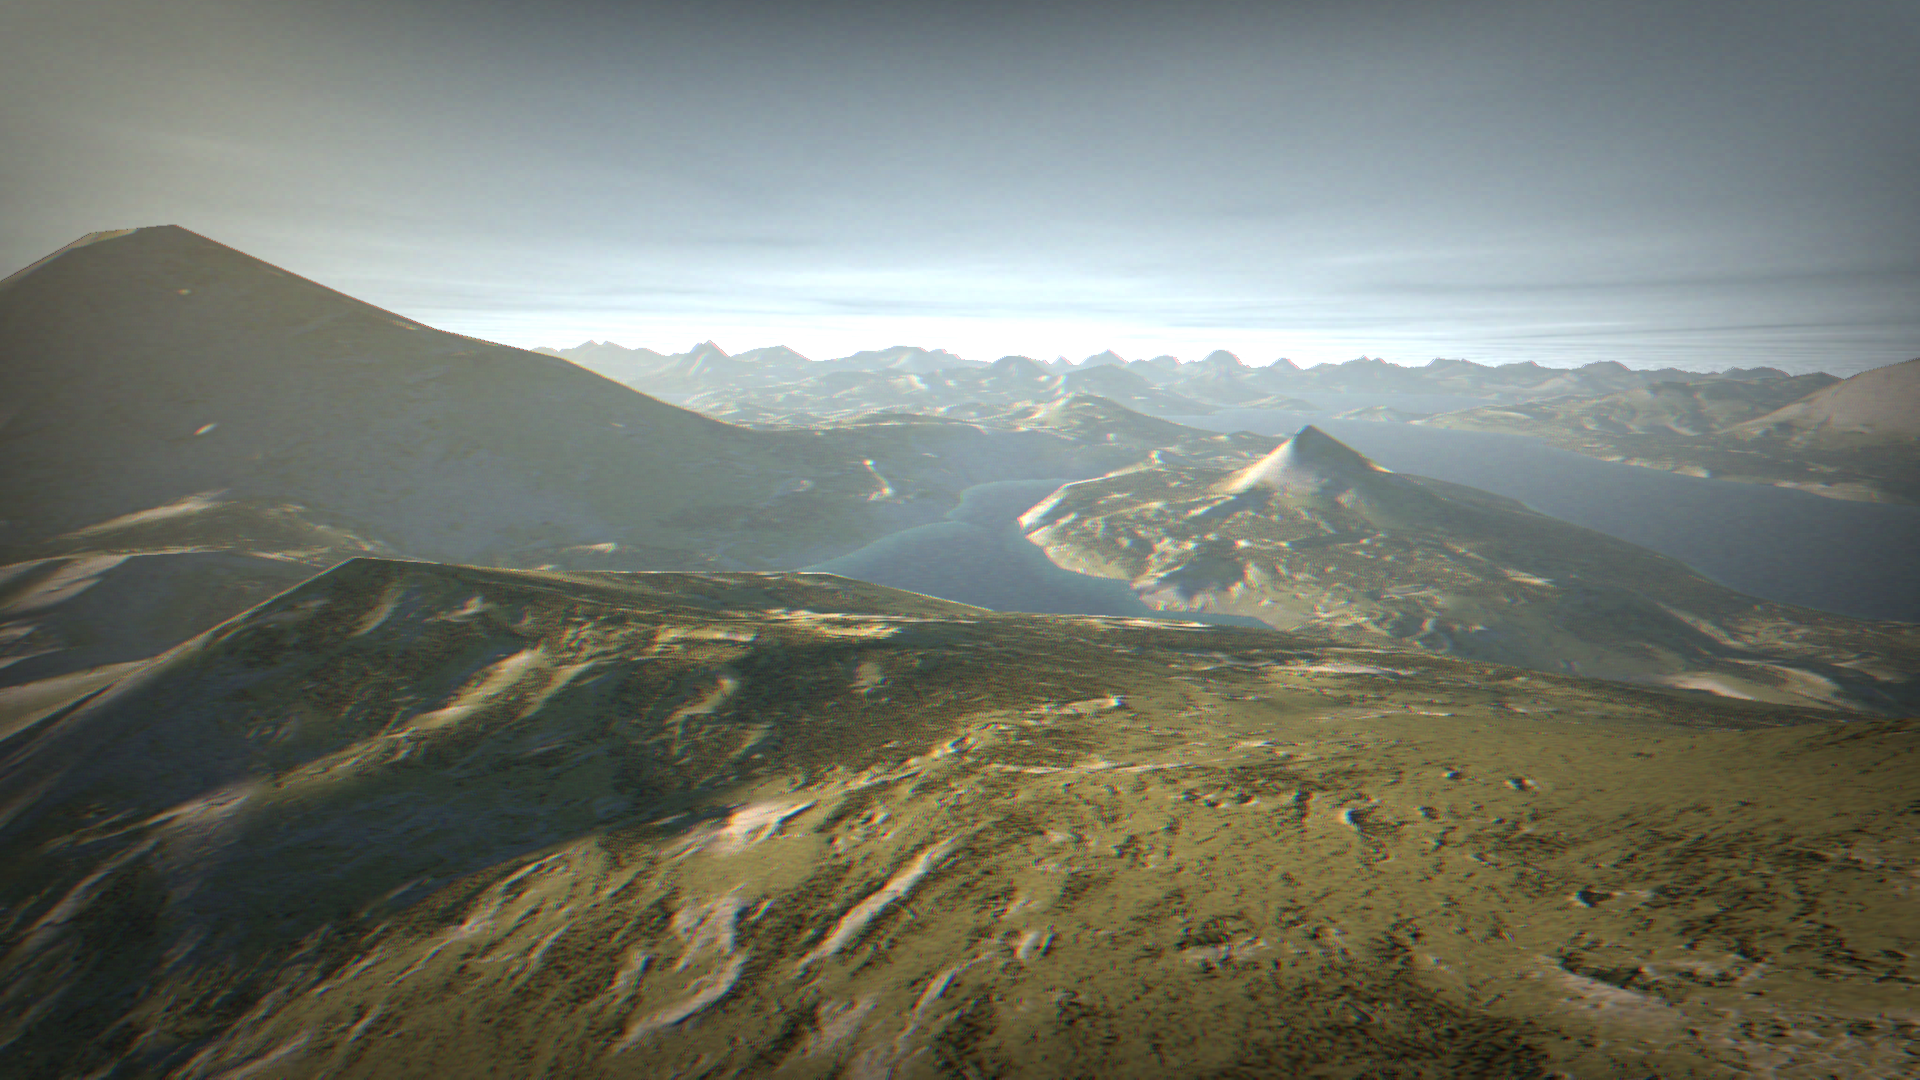
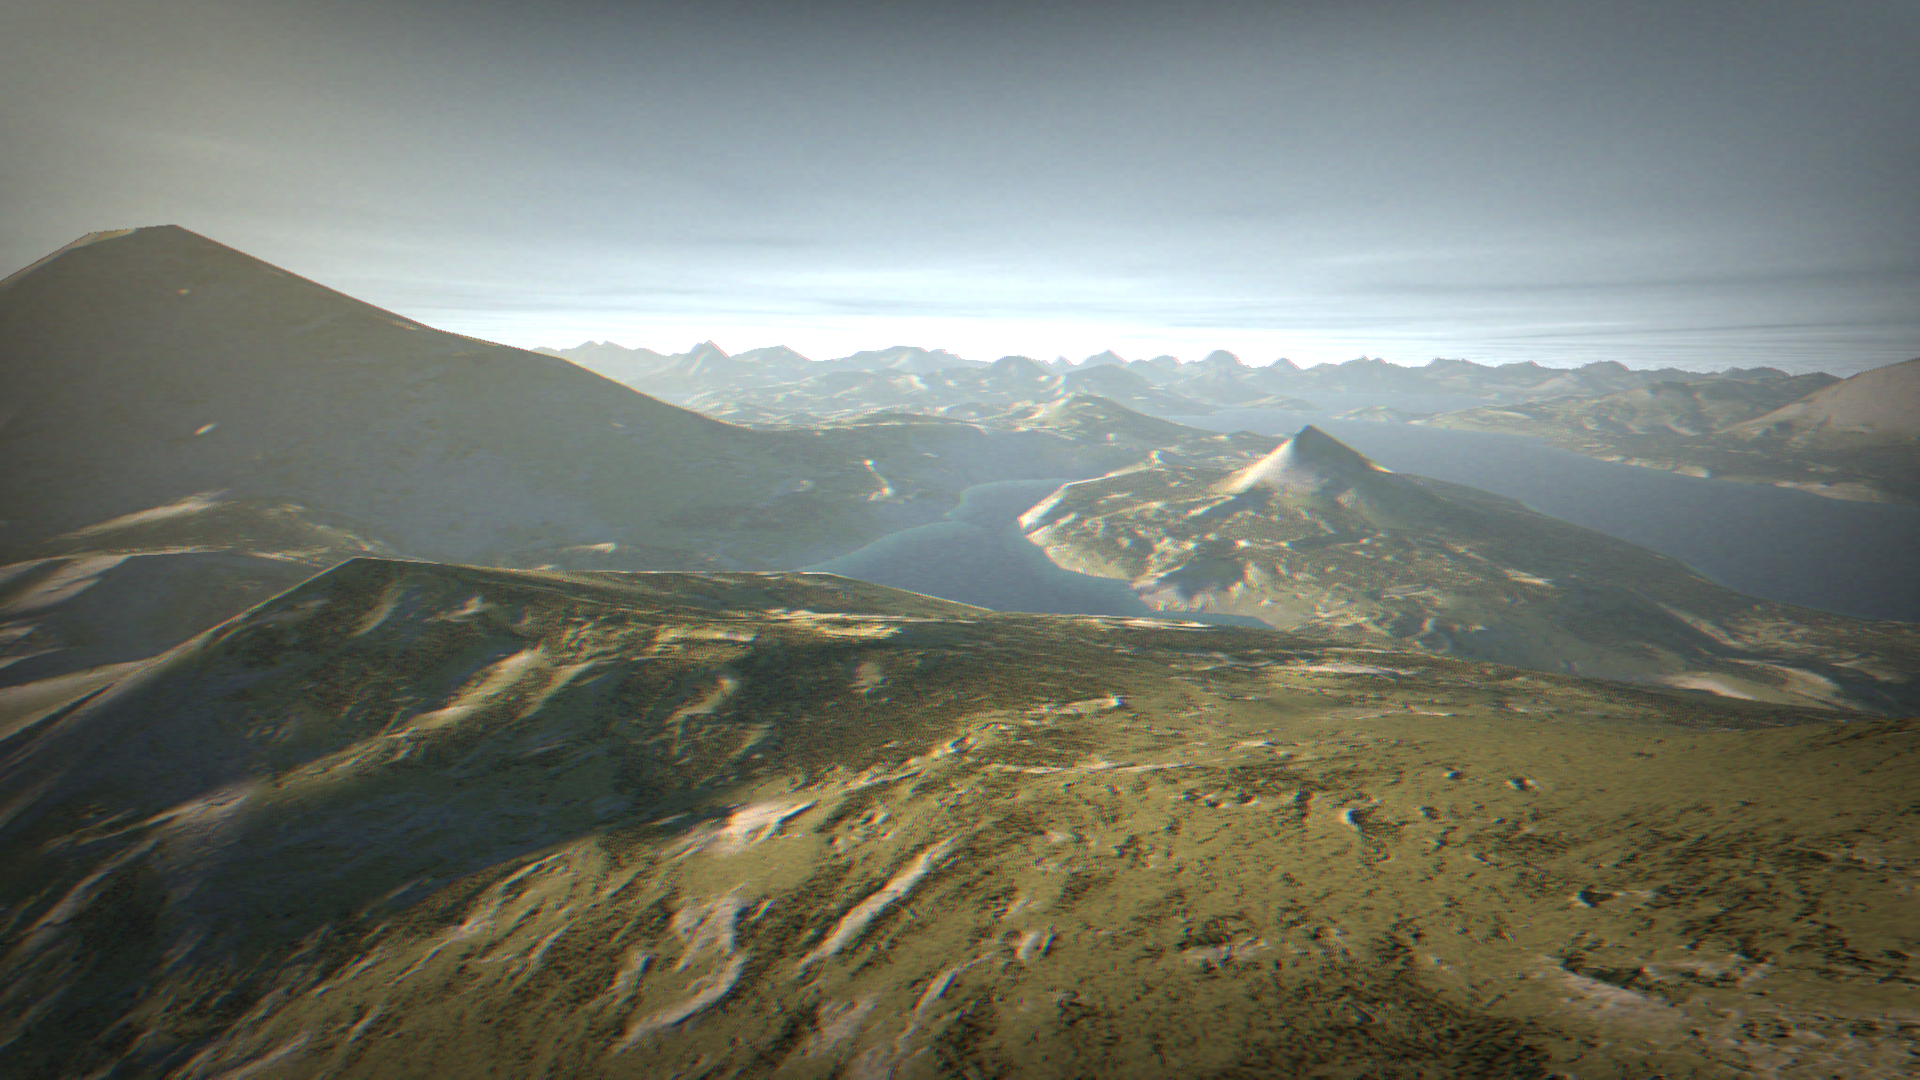
chore: checkpoint current state before fade-black experiments

diff --git a/ElevatedMac/ElevatedMac/Renderer.swift b/ElevatedMac/ElevatedMac/Renderer.swift
@@ -136,6 +136,12 @@ class DebugOverlay {
     }
 }
 
+// ─── Demo duration (exact, derived from audio sample count) ──────────────────
+// ELEVATED_TOTAL_SAMPLES = 9568256, sampleRate = 44100 Hz → 216.967s
+// Fade-to-black starts row 424 → t=200.37s; fully black row 448 → t=211.71s
+// Pure black tail: 211.71s→216.97s (5.26s). Total dark ending: 16.6s.
+let kDemoDuration: Double = Double(ELEVATED_TOTAL_SAMPLES) / 44100.0
+
 // ─── Renderer ─────────────────────────────────────────────────────────────────
 class Renderer: NSObject, MTKViewDelegate {
     let device: MTLDevice
@@ -194,7 +200,7 @@ class Renderer: NSObject, MTKViewDelegate {
     var currentTime: Double {
         guard startTime > 0 else { return 0 }
         let t = isPaused ? pauseTime : CACurrentMediaTime() - startTime
-        return max(0, min(t, 217.0))
+        return max(0, min(t, kDemoDuration))
     }
 
     func start() {
@@ -215,7 +221,7 @@ class Renderer: NSObject, MTKViewDelegate {
     }
 
     func seek(to time: Double) {
-        let t = max(0, min(time, 217.0))
+        let t = max(0, min(time, kDemoDuration))
         startTime = CACurrentMediaTime() - t
         if isPaused { pauseTime = t }
     }
@@ -250,10 +256,23 @@ class Renderer: NSObject, MTKViewDelegate {
     func buildPipelines(mtkView: MTKView) {
         let lib: MTLLibrary
         do {
-            // SPM copies .metal as a resource; compile it at runtime
-            guard let srcURL = Bundle.module.url(forResource: "Shaders", withExtension: "metal"),
-                  let src = try? String(contentsOf: srcURL, encoding: .utf8) else {
-                fatalError("Shaders.metal not found in bundle")
+            // Load Shaders.metal portably:
+            //   .app bundle  → Bundle.main (Contents/Resources/Shaders.metal)
+            //   CLI build    → ElevatedMac_ElevatedMac.bundle next to the executable
+            let srcURL: URL? = {
+                if let u = Bundle.main.url(forResource: "Shaders", withExtension: "metal") {
+                    return u
+                }
+                let execDir = URL(fileURLWithPath: ProcessInfo.processInfo.arguments[0])
+                    .deletingLastPathComponent()
+                let candidates = [
+                    execDir.appendingPathComponent("ElevatedMac_ElevatedMac.bundle/Shaders.metal"),
+                    execDir.appendingPathComponent("Shaders.metal"),
+                ]
+                return candidates.first { FileManager.default.fileExists(atPath: $0.path) }
+            }()
+            guard let srcURL, let src = try? String(contentsOf: srcURL, encoding: .utf8) else {
+                fatalError("Shaders.metal not found (checked Bundle.main and path next to binary)")
             }
             let opts = MTLCompileOptions()
             opts.languageVersion = .version3_0
@@ -589,7 +608,7 @@ class Renderer: NSObject, MTKViewDelegate {
 
     func draw(in view: MTKView) {
         let t = currentTime
-        if t >= 217.0 && !isPaused && !debugMode {
+        if t >= kDemoDuration && !isPaused && !debugMode {
             NSApplication.shared.terminate(nil)
             return
         }
@@ -619,7 +638,7 @@ class Renderer: NSObject, MTKViewDelegate {
         var uCopy = uniforms
         if let enc = cmd.makeRenderCommandEncoder(descriptor: gbRPD) {
             enc.setRenderPipelineState(gbufferPSO)
-            enc.setCullMode(.back)   // hide terrain underside when camera dips below mesh
+            enc.setCullMode(.front)  // match D3D9 D3DCULL_CCW: cull CCW-in-screen = CW-in-NDC
             enc.setDepthStencilState(depthState)
             enc.setVertexBuffer(terrainVBuf, offset: 0, index: 0)
             enc.setVertexBytes(&uCopy, length: MemoryLayout<Uniforms>.size, index: 1)

diff --git a/ElevatedMac/ElevatedMac/AppDelegate.swift b/ElevatedMac/ElevatedMac/AppDelegate.swift
@@ -124,7 +124,7 @@ class AppDelegate: NSObject, NSApplicationDelegate {
     }
 
     private func seekBy(_ delta: Double) {
-        let t = max(0, min(renderer.currentTime + delta, 217.0))
+        let t = max(0, min(renderer.currentTime + delta, kDemoDuration))
         renderer.seek(to: t)
         synth.seek(to: t)
     }
@@ -239,7 +239,7 @@ class TransportBar: NSView {
     private let timeLabel    = makeMonoLabel(width: 110, align: .left)
     private let remainLabel  = makeMonoLabel(width: 120, align: .right)
     private let slider       = SeekSlider()
-    private let totalDuration = 217.0
+    private let totalDuration = kDemoDuration
 
     override init(frame: NSRect) {
         super.init(frame: frame)

diff --git a/JOURNAL.md b/JOURNAL.md
@@ -183,6 +183,54 @@ const float up[3] = { sinf(pptr->w), cosf(pptr->w), 0.0f };
 
 ---
 
+## Fix 5: Back-Face Culling Direction (2026-03-24)
+
+**Problem**: Added `enc.setCullMode(.back)` to fix terrain-from-below, but this caused "mangled" terrain — flat horizontal slabs cutting through the scene.
+
+**Root cause**: Metal and D3D9 have opposite handedness for front-face determination after the viewport Y-flip.
+
+- D3D9 default `D3DCULL_CCW`: culls CCW triangles in screen space (Y-down) = CW in NDC (Y-up).
+  → D3D9 renders triangles that are **CCW in NDC (Y-up)** = CW in screen (Y-down).
+- Metal `.setCullMode(.back)` + default `.counterClockwise` front face: culls CW in framebuffer (Y-down) = CCW in NDC (Y-up).
+  → Metal with `.back` renders triangles that are **CW in NDC (Y-up)** = CCW in framebuffer.
+
+Our terrain mesh top-surface triangles are **CCW in NDC** (correct, matches D3D9 front face). With `.back` culling in Metal, these get culled as "back faces." Only the undersides (CW in NDC) are rendered — exactly backwards.
+
+**Fix in `Renderer.swift`** (G-buffer encoder):
+```swift
+// Before (wrong — culls terrain tops):
+enc.setCullMode(.back)
+// After (correct — matches D3D9 D3DCULL_CCW):
+enc.setCullMode(.front)
+```
+
+With `.front` culling: Metal culls CCW-in-framebuffer = CW-in-NDC = what D3D9 also culls. Both show terrain tops, hide bottoms.
+
+---
+
+## Demo Timing (Exact, from Sync Data)
+
+All times computed from `row = position / 20840`, `position = t × 44100`.
+
+| Event | Row | Time (s) | SMPTE (60fps) |
+|-------|-----|----------|---------------|
+| Fade from black starts | 0 | 0.000 | 00:00:00:00 |
+| Fade from black ends | 8 | 3.778 | 00:00:03:47 |
+| Fade to black starts | 424 | 200.37 | 00:03:20:22 |
+| Screen fully black | 448 | 211.71 | 00:03:31:43 |
+| Audio ends | — | 216.97 | 00:03:36:58 |
+
+The dark ending has two phases:
+- **Fade** (rows 424→448): 11.34 seconds — `imgBrightness` linearly goes 100→0 (`brightness` goes -0.22→-1.0)
+- **Pure black tail** (row 448→audio end): 5.26 seconds — brightness stays at -1.0
+- **Total dark period**: 16.6 seconds (user guessed "~15 seconds" — close)
+
+The original AVI at 3:35=215s sits between the visual blackout (211.71s) and audio end (216.97s), suggesting the AVI was trimmed ~4s after the screen went black.
+
+**Code change**: All `217.0` hardcodes replaced with `kDemoDuration = Double(ELEVATED_TOTAL_SAMPLES) / 44100.0 = 216.967s`. Computed constant eliminates drift.
+
+---
+
 ## Known Remaining Issues (as of 2026-03-24)
 
 ### Camera Path — Minor Residual Drift
@@ -193,6 +241,9 @@ After the xdot fix, the camera is broadly correct — mountains are visible at a
 
 ### Light Beams — Verified Working (2026-03-24)
 Instrument sync confirmed working after full capture. Beams appear synced to music at t=132-136. Light beam at t=132 appears ~1 frame early in reference vs our port — likely a ≤1-step offset in the sync scan. Functionally correct.
+
+### Fade from Black at Start — Partial
+The `imgBrightness` sync track correctly sets brightness to -1.0 at t=0 and linearly fades to 0.0 over 3.78 seconds. Most of the sky is black. However, the sun halo term (`pow(saturate(dot(e, sunDir)), 16) * float3(.4,.3,.1)`) pushes sky color to ~1.55 linear near the sun direction, which after gamma × contrast gives ~0.43 output — visible even at brightness=-1. Whether the camera faces the sun at t=0 determines if the leak is noticeable. The original D3D9 demo has the same math, so if the original showed a clean fade from black, the camera must face away from the sun at t=0.
 
 ### Color/Tone Differences
 Our capture is slightly warmer/more orange-tinted at some timestamps vs the cooler blue reference. Likely a minor difference in sun direction or color computation. Low priority.